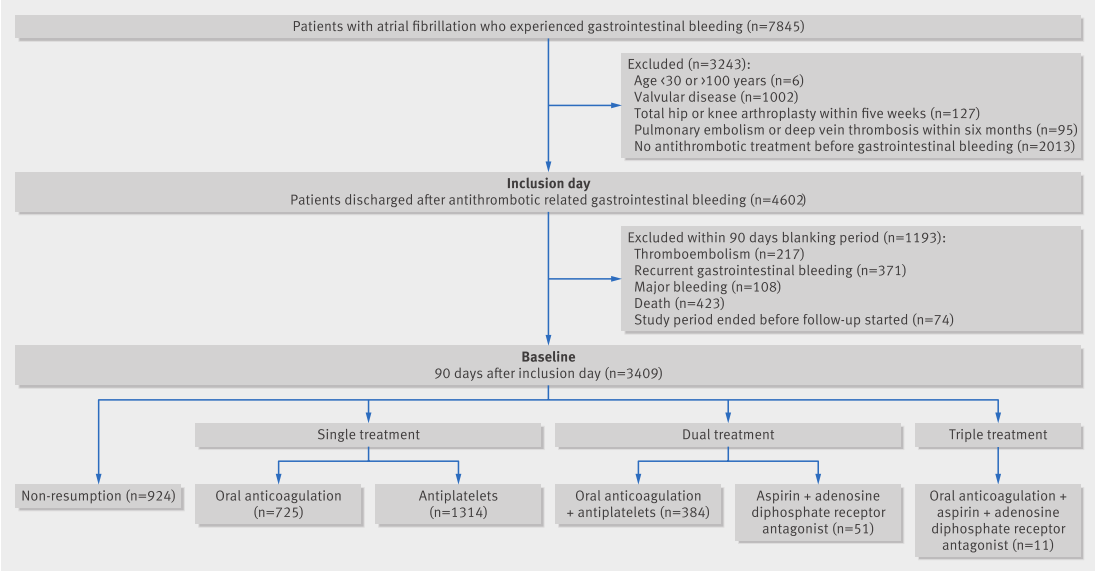
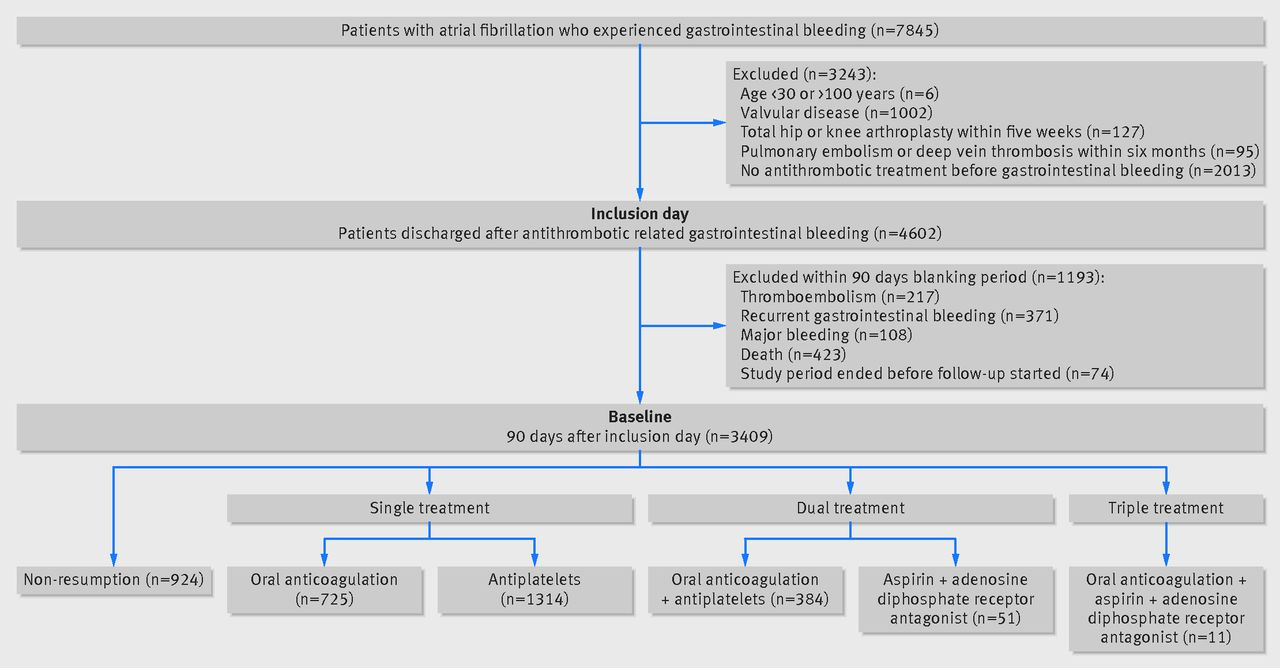
update

diff --git a/slides/anticoag-jc/index.html b/slides/anticoag-jc/index.html
@@ -37,11 +37,9 @@
 
 <div class="center">Created by [Michael L. Bernauer](http://mlbernauer.com)</div>
 
-
 <div calss="center">APPE-8: UNMH Internal Medicine - Allison Burnett, PharmD</center>
 
 <div class="center">_January 16, 2016_</div>
-
 </script>
 </section>
 <section data-markdown>
@@ -137,9 +135,9 @@ Patients were stratified into groups according to antithrombotic treatment
 * Concomitant medicaitons used at baseline were determined using prescription fill history during the 90 day blanking peroid
 
 ### Comorbidities
-* **Stroke**: assessed using CHADS<sub>2</sub> and CHA<sub>2</sub>DS<sub>2</sub>-VASc scores
-    * **C**HF, **H**TN, **A**ge &ge; 75, **D**M, **S**troke or TIA (**V**ascular disease, **A**ge 65 to 74, **S**ex[F])
-* **Bleeding risk**: assessed using HAS-BLED
+* Stroke risk was assessed using CHADS<sub>2</sub> and CHA<sub>2</sub>DS<sub>2</sub>-VASc scores
+    * CHF, HTN, Age &ge; 75, DM, Stroke or TIA (Vascular disease, Age 65 to 74, Sex[F])
+* Bleeding risk was assessed using HAS-BLED
     * HTN, abnormal renal/liver function, stroke, previous bleed, INR, age &ge; 65, drugs (antiplatelet agents, NSAIDs) or EtOH abuse.
 </script>
 </section>
@@ -163,13 +161,11 @@ Patients were stratified into groups according to antithrombotic treatment
 <section data-markdown>
 <script type="text/template">
 ## Statistical analysis
-* Categorical data was used &chi;<sup>2</sup> test
-* Risk of events with 
-</script>
-</section>
-<section data-markdown>
-<script type="text/template">
-## Patient involvement
+* Baseline characteristics were represented using means and standard deviations
+* Independence/homogeneity was assessed using &chi;<sup><small>2</small></sup> tests
+* Cumulative incidence of outcomes was assessed using the Aalen-Johansen method
+* Time dependent Cox proportional hazards models were used to examine the risk of events during follow-up
+* Significance was determined using two-sided &alpha; of &lt; 0.05
 </script>
 </section>
 </section>
@@ -179,26 +175,44 @@ Patients were stratified into groups according to antithrombotic treatment
 # Results
 </script>
 </section>
-<section data-markdown>
-<script type="text/template">
-## Index study population
-
-![Enrollment diagram](flow.png)
-</script>
+<section data-background="flow.png">
 </section>
 <section data-markdown>
 <script type="text/template">
 ## Outcomes after index bleeding event
+| Outcome       | Cumulative indcidence (2yrs)|
+| --------------| ----------------------|
+| All cause mortality | 39.9% (38.4% to 41.3%, n=1745)         |
+| Thromboembolism     | 12.0% (11.0% to 13.0%, n=526)          |
+| Major bleeding      | 17.7% (16.5% to 18.8%, n=788)          |
+| Recurrent GI bleed  | 12.1% (11.1% to 13.1%, n=526)          |
 </script>
 </section>
 <section data-markdown>
 <script type="text/template">
 ## Baseline study population
+* 1,192 patients were excluded during the 90 day blanking peroid
+* Baseline population at 90 days post inclusion event consisted of 3,409 patients
+* Mean CHAD<sub><small>2</small></sub>DS<sub><small>2</small></sub>-VASc was 3.6 (SD 1.5)
+* Mean HAS-BLED was 3.0 (SD 1.0)
+
+| Therapy                                                            | Percent (n)    |
+| ------------------------------------------------------------------ | ---------------|
+| Single anticoagulant                                               | 21.3% (n=725)  |
+| Aspirin                                                            | 35.5% (n=1,212)|
+| P2Y<sub><small>12</small></sub> inhibitor                          | 3.0% (n=102)   |
+| Anticoagulant + Aspirin                                            | 10.7% (n=363)  |
+| Anticoagulant + P2Y<sub><small>12</small></sub> inhibitor          | 0.6% (n=21)    |
+| Aspirin + P2Y<sub><small>12</small></sub> inhibitor                | 1.5% (n=51)    |
+| Anticoagulant + Aspirin + P2Y<sub><small>12</small></sub> inibitor | 0.3% (n=11)    |
 </script>
 </section>
 <section data-markdown>
 <script type="text/template">
 ## Cumulative indices
+* Significant increase in all cause mortality at 5 years in non-resumption and single antiplatelet group
+![Cumulative incidence plot](cumplot.png)
+![Hazard ratios](hazards.png)
 </script>
 </section>
 <section data-markdown>
